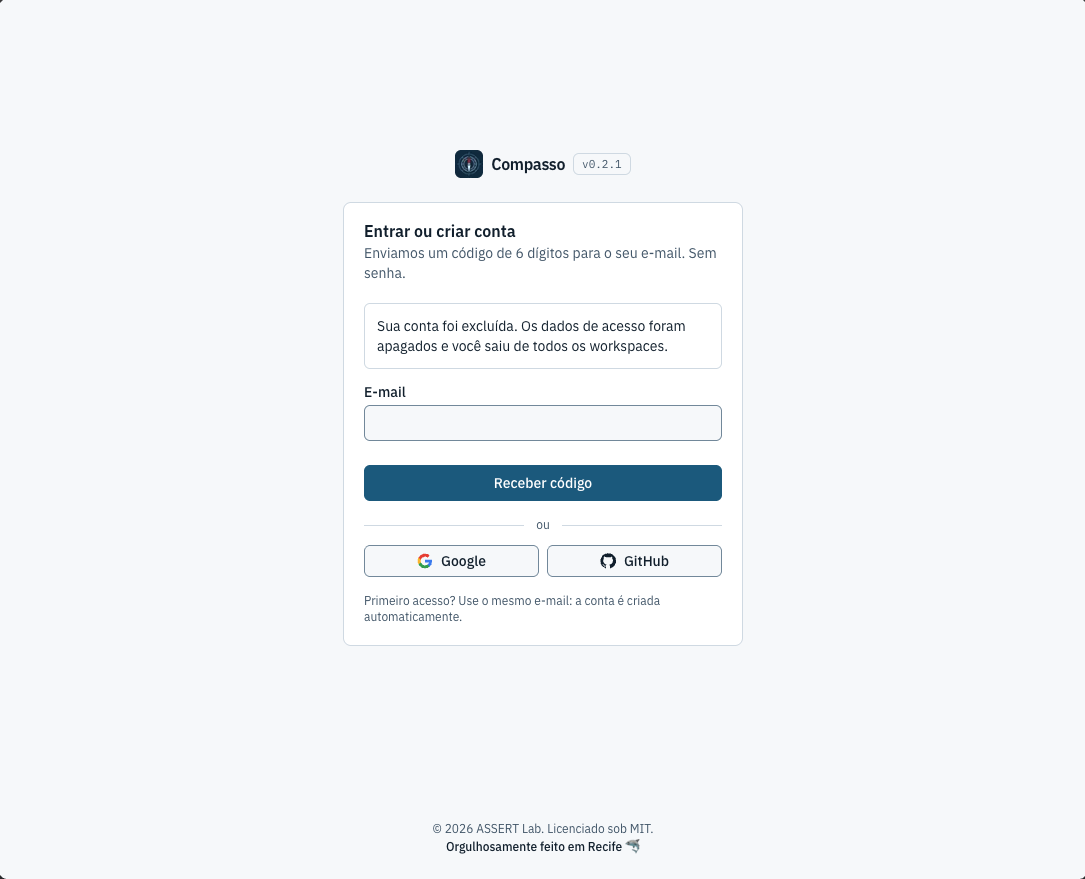
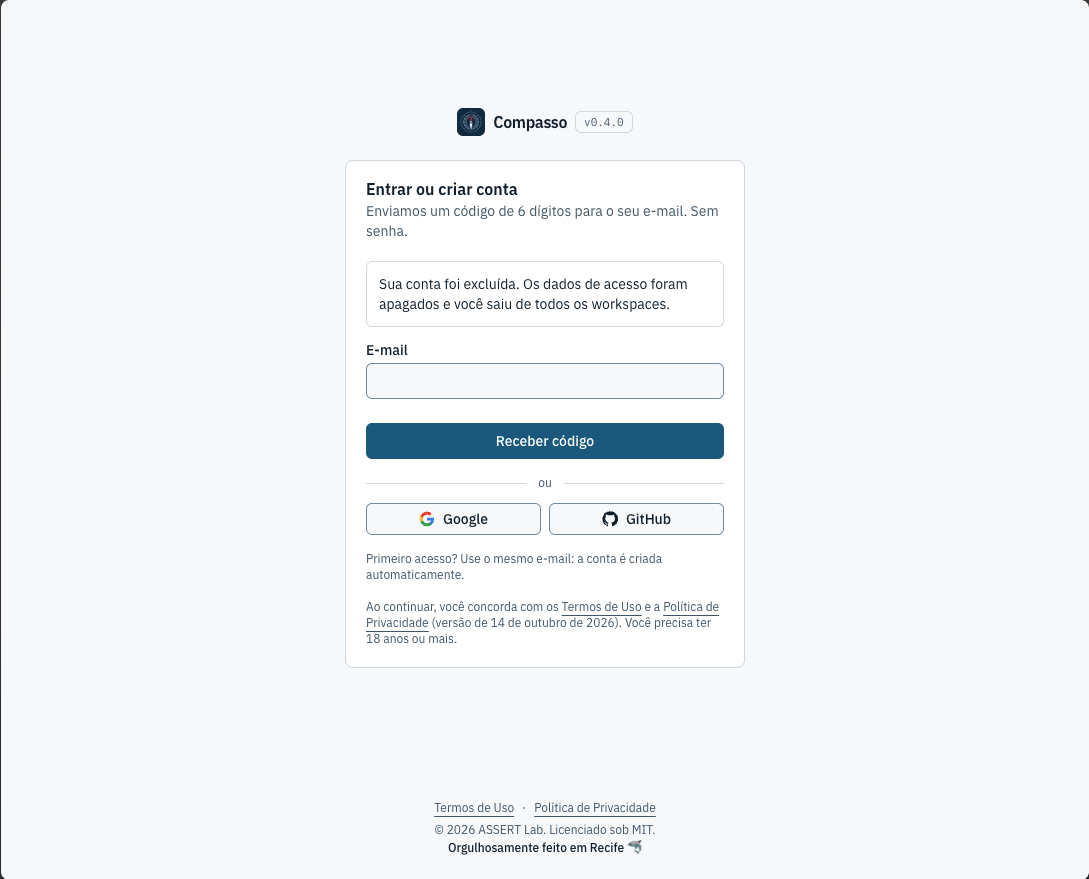
docs(guia): seção Termos, privacidade e contato e capturas da 0.4.0 (#90)
Nova subseção na seção 8, nota do topo atualizada e capturas da entrada,
do código (e-mail desfocado), da conta excluída e do acesso restrito
refeitas com o aviso de aceite e os links do rodapé.

Claude-Session: https://claude.ai/code/session_01VDxbrneS3TEAUmdgVmkKpQ

Changed region(s): [[0.3346, 0.1229, 0.6691, 0.7372], [0.3954, 0.8908, 0.6083, 0.9829], [0.6387, 0.3993, 0.6691, 0.43]]

diff --git a/docs/guia-de-uso/README.md b/docs/guia-de-uso/README.md
@@ -2,7 +2,7 @@
 
 O Compasso registra o tempo de trabalho por cliente, projeto e tarefa e transforma esses registros em relatórios que você baixa em XLSX, CSV ou PDF, sem plano pago. Este guia cobre o uso do dia a dia, da primeira entrada ao relatório do mês.
 
-> As telas usam dados de demonstração (clientes marcados com "(demo)") e correspondem à versão 0.1.0, exceto o menu da conta e a página "Minha conta" (incluindo a exclusão de conta), capturados na 0.2.1, e a página de acesso restrito, capturada na 0.3.1. Os e-mails das capturas foram desfocados.
+> As telas usam dados de demonstração (clientes marcados com "(demo)") e correspondem à versão 0.1.0, exceto o menu da conta e a página "Minha conta" (incluindo a exclusão de conta), capturados na 0.2.1, e as telas de entrada, de código, de conta excluída e de acesso restrito, capturadas na 0.4.0. Os e-mails das capturas foram desfocados.
 
 **Neste guia**
 
@@ -25,7 +25,7 @@ Não existe senha. Você digita o e-mail, recebe um código de 6 dígitos e o in
 
 Abaixo do formulário de entrada há o aviso de que, ao continuar, você concorda com os **Termos de Uso** e a **Política de Privacidade** (a versão de cada texto aparece no aviso), e que é preciso ter 18 anos ou mais. Os dois textos ficam abertos a quem ainda não entrou e também têm links no rodapé de todas as telas.
 
-![Tela de entrada com campo de e-mail, botão "Receber código" e botões Google e GitHub](./img/01-entrar.png)
+![Tela de entrada com campo de e-mail, botão "Receber código", botões Google e GitHub e o aviso de que, ao continuar, você concorda com os Termos de Uso e a Política de Privacidade](./img/01-entrar.png)
 
 Depois de pedir o código, a tela passa a pedir o código recebido. O código vale por 5 minutos. Se o e-mail estiver errado, "Usar outro e-mail" volta ao passo anterior.
 
@@ -173,6 +173,14 @@ Para confirmar, clique em **Enviar código por e-mail**, digite o código de 6 d
 Ao concluir, você volta à tela de entrada com o aviso de que a conta foi excluída.
 
 ![Tela de entrada com o aviso "Sua conta foi excluída. Os dados de acesso foram apagados e você saiu de todos os workspaces."](./img/18-conta-excluida.png)
+
+### Termos, privacidade e contato
+
+Os **Termos de Uso** e a **Política de Privacidade** ficam em `/termos` e `/privacidade`, com links no rodapé de todas as telas e no aviso da tela de entrada. Abrem sem login e mostram a data da versão. Ao continuar na entrada, você concorda com os dois; o Compasso não grava um aceite separado.
+
+Em resumo: o Compasso guarda o que você precisa para registrar horas (e-mail, nome, seus cadastros e registros) e o mínimo para manter o acesso seguro (a sessão, com o endereço IP e o navegador usados no login, e os códigos de verificação, guardados só como hash). Não há anúncios nem ferramentas de rastreamento. Os dados ficam em fornecedores sediados nos Estados Unidos (o banco de dados na AWS, em Ohio, a hospedagem, o envio de e-mail e a verificação anti-robô), e a política lista todos. Administradores de um workspace podem ver e exportar os registros de horas dos membros dali; os seus dados em outros workspaces não aparecem para eles.
+
+Para exercer os seus direitos, baixe ou exclua os seus dados em **Minha conta**, como descrito acima. Qualquer outro pedido (corrigir algo, pedir a eliminação do conteúdo de um workspace arquivado, tirar dúvidas) vai para `contato@assertlab.com`, o mesmo endereço para pedir acesso ao beta. Os textos foram escritos para o beta fechado e ainda não passaram por revisão jurídica.
 
 O Compasso é um aplicativo web instalável (PWA): pelo menu do navegador é possível instalá-lo na tela inicial do celular ou do computador.
 

diff --git a/CHANGELOG.md b/CHANGELOG.md
@@ -4,6 +4,9 @@ Formato inspirado em [Keep a Changelog](https://keepachangelog.com/pt-BR/1.1.0/)
 
 ## [Não lançado]
 
+### Documentação
+- Guia de uso: nova subseção **Termos, privacidade e contato** (seção 8) e capturas da entrada, do código, da conta excluída e do acesso restrito refeitas na 0.4.0 (com o aviso de aceite e os links do rodapé; o e-mail da tela de código segue desfocado).
+
 ## [0.4.0] - 2026-10-14
 
 Beta fechado: o acesso a contas novas passa a depender de uma lista de e-mails liberados, e o serviço ganha Termos de Uso e Política de Privacidade.
